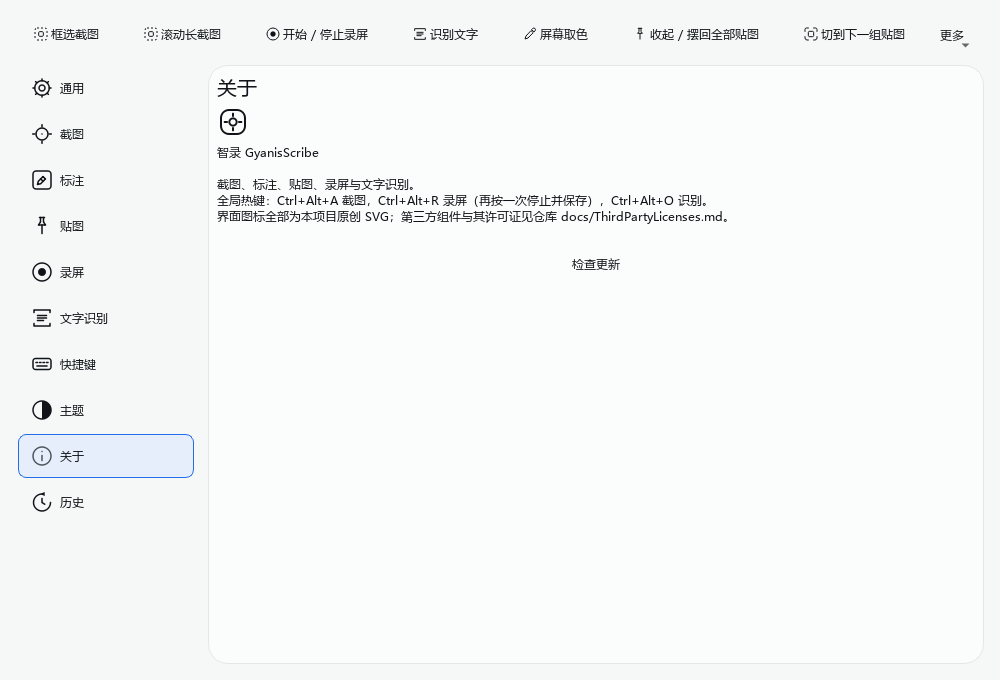
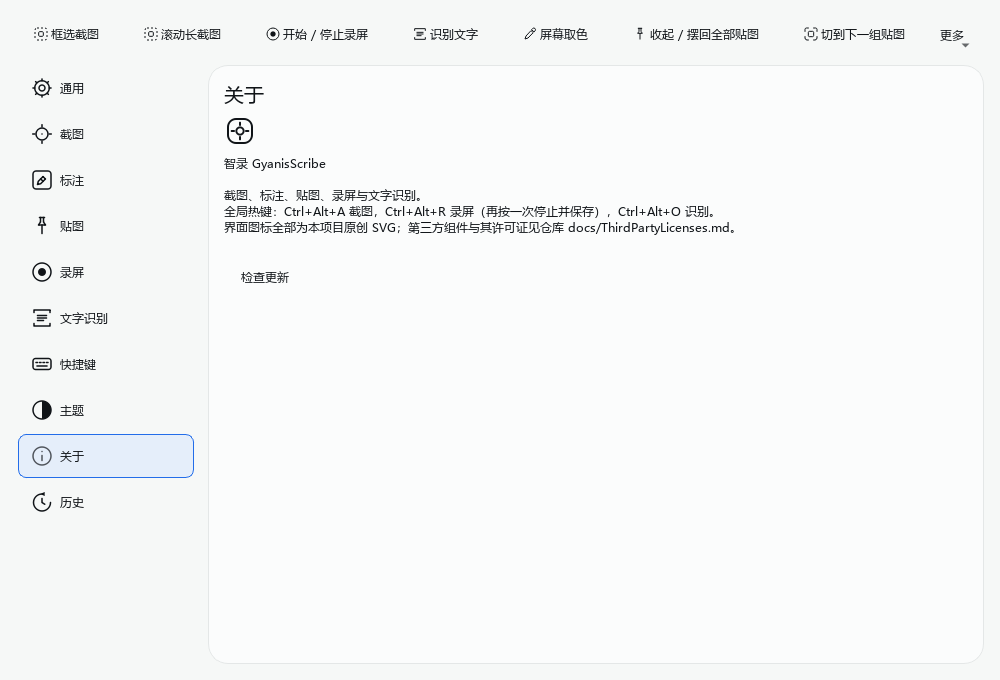
fix(Main): 设置页标签列宽全族统一 + 关于页并入同一内容网格（界面审查 UI-01 / UI-08）
- UI-01：字段列此前跨页从 280 跳到 472（各页标签列宽随最长标签走），翻页时整列控件左右跳。
  做法：decoratePage 的既有遍历里给每个标签控件设最小宽 kSettingsLabelColumnWidth=240——
  QFormLayout 没有列宽接口，撑标签即撑整列；八页字段列收到同一 x。
  判据 `SettingsColumnsShareOneWidthAcrossPages`（逐页量字段左缘，任两页差 1px 即红；
  拿掉统一宽实测红）。
- UI-08：关于页用自己的默认边距（正文左缘比表单页左 7px），且整宽按钮把「检查更新」标签居中成
  一条悬空字。改成与表单页同边距同间距、按钮左对齐到正文左缘。
  判据 `AboutPageSharesTheFormsContentGrid`（关于正文左缘 == 通用页标签列左缘；撤边距实测红）。
- 文档图 9 张按新网格重出（历史页无表单行，像素未变）。

门禁：TestMainWindow 69/69。

Changed region(s): [[0.217, 0.1235, 0.744, 0.3397], [0.558, 0.3706, 0.62, 0.4015], [0.248, 0.4015, 0.31, 0.4324]]

diff --git a/tests/Main/TestMainWindow.cpp b/tests/Main/TestMainWindow.cpp
@@ -334,6 +334,74 @@ namespace
     }
 
     /**
+     * @brief 钉住「标签列宽全族统一」（界面审查 UI-01）：翻页时字段列不许左右跳
+     * @details 改之前字段列在各页从 280 跳到 472——统一的标签列宽（kSettingsLabelColumnWidth）
+     *          把八页收到同一列；这条逐页开过去量第一行的字段左缘，任两页差 1px 都算红。
+     */
+    TEST_F(MainWindowFixture, SettingsColumnsShareOneWidthAcrossPages)
+    {
+        makeWindow();
+        std::optional<int> sharedLeft;
+        const auto         pages = {MainWindowPage::General, MainWindowPage::Capture, MainWindowPage::Annotation, MainWindowPage::Pin,
+                                    MainWindowPage::Record,  MainWindowPage::Ocr,     MainWindowPage::Hotkey,     MainWindowPage::Theme};
+        for (const auto page: pages)
+        {
+            m_window->open(page);
+            QCoreApplication::processEvents();
+            auto *current = stack()->currentWidget();
+            ASSERT_NE(current, nullptr);
+            auto *form = current->findChild<QFormLayout *>();
+            ASSERT_NE(form, nullptr);
+            int fieldLeft = -1;
+            for (int row = 0; row < form->rowCount() && fieldLeft < 0; ++row)
+            {
+                const auto *fieldItem = form->itemAt(row, QFormLayout::FieldRole);
+                if (fieldItem != nullptr && fieldItem->widget() != nullptr)
+                {
+                    fieldLeft = fieldItem->widget()->mapTo(m_window.get(), QPoint{0, 0}).x();
+                }
+            }
+            ASSERT_GE(fieldLeft, 0) << "有一页没量到字段列";
+            if (!sharedLeft.has_value())
+            {
+                sharedLeft = fieldLeft;
+            } else
+            {
+                EXPECT_EQ(fieldLeft, *sharedLeft) << "翻页时字段列跳了";
+            }
+        }
+    }
+
+    /**
+     * @brief 钉住关于页与表单页共用同一列内容网格（界面审查 UI-08）
+     * @details 关于页此前用自己的默认边距（内容左缘比表单页小一圈），翻页时正文左跳 7px；
+     *          这条量「关于页第一个正文控件的左缘」与「通用页标签控件的左缘」相等。
+     */
+    TEST_F(MainWindowFixture, AboutPageSharesTheFormsContentGrid)
+    {
+        makeWindow();
+        m_window->open(MainWindowPage::General);
+        QCoreApplication::processEvents();
+        auto *general = stack()->currentWidget();
+        ASSERT_NE(general, nullptr);
+        auto *form = general->findChild<QFormLayout *>();
+        ASSERT_NE(form, nullptr);
+        auto *firstLabel = form->itemAt(0, QFormLayout::LabelRole);
+        ASSERT_NE(firstLabel, nullptr);
+        ASSERT_NE(firstLabel->widget(), nullptr);
+        const int formLeft = firstLabel->widget()->mapTo(m_window.get(), QPoint{0, 0}).x();
+
+        m_window->open(MainWindowPage::About);
+        QCoreApplication::processEvents();
+        auto *about = stack()->currentWidget();
+        ASSERT_NE(about, nullptr);
+        auto *aboutLogo = about->findChild<QLabel *>();
+        ASSERT_NE(aboutLogo, nullptr) << "关于页没有正文控件，判据的前提没构造出来";
+        const int aboutLeft = aboutLogo->mapTo(m_window.get(), QPoint{0, 0}).x();
+        EXPECT_EQ(aboutLeft, formLeft) << "关于页正文左缘与表单页的网格对不上";
+    }
+
+    /**
      * @brief 钉住「不透明度数字框的范围」与读端判据同解，并把写进去的值读回来
      * @details 数字框能给出 0 而读端拒 0，用户就会存下一个自己用不了的值；
      *          反过来写通读通才算这一行不是空控件。

diff --git a/src/Main/MainWindow.cpp b/src/Main/MainWindow.cpp
@@ -198,6 +198,12 @@ namespace
         {
             for (int row = 0; row < form->rowCount(); ++row)
             {
+                // 标签列宽也收到统一一档（界面审查 UI-01）：QFormLayout 没有列宽接口，
+                // 给每个标签控件一个最小宽即把整列撑到同一档，翻页时字段列不再左右跳
+                if (auto *label = form->itemAt(row, QFormLayout::LabelRole); label != nullptr && label->widget() != nullptr)
+                {
+                    label->widget()->setMinimumWidth(GyanisScribe::Gui::kSettingsLabelColumnWidth);
+                }
                 if (auto *field = form->itemAt(row, QFormLayout::FieldRole); field != nullptr)
                 {
                     if (auto *widget = field->widget(); widget != nullptr)
@@ -2443,6 +2449,9 @@ namespace GyanisScribe::Main
     {
         auto *page   = new QWidget{this};
         auto *layout = new QVBoxLayout{page};
+        // 与表单页同一条内容网格（界面审查 UI-08）：默认边距比表单页小一圈，翻到这一页正文会左跳 7px
+        layout->setContentsMargins(GyanisScribe::Gui::kSpacingLarge, GyanisScribe::Gui::kSpacingLarge, GyanisScribe::Gui::kSpacingLarge, GyanisScribe::Gui::kSpacingLarge);
+        layout->setSpacing(GyanisScribe::Gui::kSpacingSmall);
 
         auto *logo = new QLabel{page};
         logo->setPixmap(m_icons.pixmap("AppIcon", GyanisScribe::Gui::IconSize::ExtraLarge));
@@ -2485,7 +2494,8 @@ namespace GyanisScribe::Main
 
         layout->addWidget(logo);
         layout->addWidget(text);
-        layout->addWidget(checkButton);
+        // 左对齐到正文左缘：整宽按钮会把标签居中，看着像一条悬空的字
+        layout->addWidget(checkButton, 0, Qt::AlignLeft);
         layout->addWidget(status);
         layout->addStretch();
         return page;

diff --git a/src/Gui/Theme/DesignTokens.h b/src/Gui/Theme/DesignTokens.h
@@ -276,6 +276,9 @@ namespace GyanisScribe::Gui
     /// 一行设置项里字段的最大宽度：路径与下拉拉到整窗宽时，「这一格填什么」就看不出来了
     inline constexpr int kFieldMaximumWidth = 380;
 
+    /// 设置页标签列的最小宽度：全族统一（取最长标签一页），翻页时字段列不再左右跳（界面审查 UI-01）
+    inline constexpr int kSettingsLabelColumnWidth = 240;
+
     /// 页顶说明行的最大宽度：整窗宽的一行长句读起来要回头数，收到这一档就按行折
     inline constexpr int kIntroMaximumWidth = 420;
 
